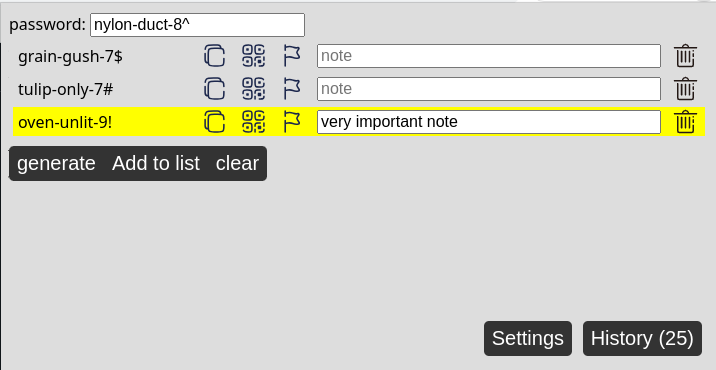
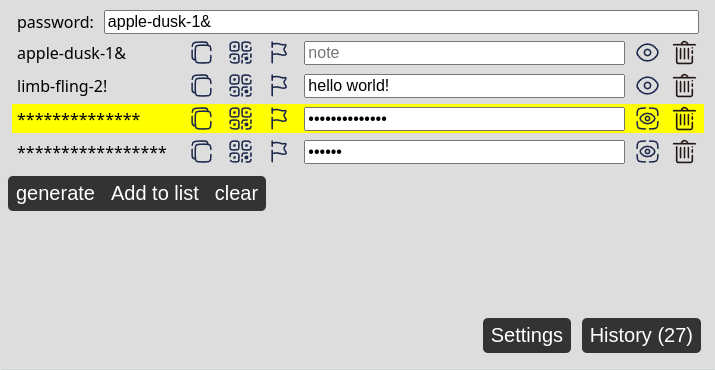
Add password hiding feature

Changed region(s): [[0.0, 0.0, 0.9846, 0.5946], [0.6769, 0.8622, 0.9846, 0.9811]]

diff --git a/src/components/icons/eye.tsx b/src/components/icons/eye.tsx
@@ -1,0 +1,74 @@
+import React from 'react';
+
+interface Props {
+  open: boolean;
+}
+
+const IconEye = (props: Props) => {
+  const { open } = props;
+  if (open) {
+    return (
+      <svg
+        width="25px"
+        height="25px"
+        viewBox="0 0 24 24"
+        fill="none"
+        xmlns="http://www.w3.org/2000/svg"
+      >
+        <path
+          d="M10 22C6.22876 22 4.34315 22 3.17157 20.8284C2 19.6569 2 18.7712 2 15"
+          stroke="#1C274C"
+          stroke-width="1.5"
+          stroke-linecap="round"
+        />
+        <path
+          d="M22 15C22 18.7712 22 19.6569 20.8284 20.8284C19.6569 22 17.7712 22 14 22"
+          stroke="#1C274C"
+          stroke-width="1.5"
+          stroke-linecap="round"
+        />
+        <path
+          d="M14 2C17.7712 2 19.6569 2 20.8284 3.17157C22 4.34315 22 5.22876 22 9"
+          stroke="#1C274C"
+          stroke-width="1.5"
+          stroke-linecap="round"
+        />
+        <path
+          d="M10 2C6.22876 2 4.34315 2 3.17157 3.17157C2 4.34315 2 5.22876 2 9"
+          stroke="#1C274C"
+          stroke-width="1.5"
+          stroke-linecap="round"
+        />
+        <path
+          d="M5.89243 14.0598C5.29748 13.3697 5 13.0246 5 12C5 10.9754 5.29747 10.6303 5.89242 9.94021C7.08037 8.56222 9.07268 7 12 7C14.9273 7 16.9196 8.56222 18.1076 9.94021C18.7025 10.6303 19 10.9754 19 12C19 13.0246 18.7025 13.3697 18.1076 14.0598C16.9196 15.4378 14.9273 17 12 17C9.07268 17 7.08038 15.4378 5.89243 14.0598Z"
+          stroke="#1C274C"
+          stroke-width="1.5"
+        />
+        <circle cx="12" cy="12" r="2" stroke="#1C274C" stroke-width="1.5" />
+      </svg>
+    );
+  } else {
+    return (
+      <svg
+        width="25px"
+        height="25px"
+        viewBox="0 0 24 24"
+        fill="none"
+        xmlns="http://www.w3.org/2000/svg"
+      >
+        <path
+          d="M3.27489 15.2957C2.42496 14.1915 2 13.6394 2 12C2 10.3606 2.42496 9.80853 3.27489 8.70433C4.97196 6.49956 7.81811 4 12 4C16.1819 4 19.028 6.49956 20.7251 8.70433C21.575 9.80853 22 10.3606 22 12C22 13.6394 21.575 14.1915 20.7251 15.2957C19.028 17.5004 16.1819 20 12 20C7.81811 20 4.97196 17.5004 3.27489 15.2957Z"
+          stroke="#1C274C"
+          stroke-width="1.5"
+        />
+        <path
+          d="M15 12C15 13.6569 13.6569 15 12 15C10.3431 15 9 13.6569 9 12C9 10.3431 10.3431 9 12 9C13.6569 9 15 10.3431 15 12Z"
+          stroke="#1C274C"
+          stroke-width="1.5"
+        />
+      </svg>
+    );
+  }
+};
+
+export { IconEye };

diff --git a/src/pages/app/popup.tsx b/src/pages/app/popup.tsx
@@ -6,11 +6,19 @@ import {
   Button,
   Container,
   SettingsButton,
-  ButtonGroup
+  ButtonGroup,
+  Row
 } from '../../components/styles';
 import { getPasswordHistory, getPasswords, getSettings } from '../settings';
 import { IPassword, ISettings } from '../../types';
 import Password from '@components/password-row';
+
+// async function getLastPasswordFromHistory() {
+//   const history = await getPasswordHistory();
+//   if (history.at(0)) {
+//     return history.at(0);
+//   }
+// }
 
 const App = () => {
   const [password, setPassword] = useState('');
@@ -123,23 +131,35 @@ const App = () => {
     if (!passwords) {
       return;
     }
-    console.log('updating note');
+    console.log('flagging password');
     const updatedPasswords = [...passwords];
     updatedPasswords[index].flagged = !updatedPasswords[index].flagged;
+    setPasswords(updatedPasswords);
+  };
+
+  const hidePassword = (index: number) => {
+    if (!passwords) {
+      return;
+    }
+    console.log('hiding password');
+    const updatedPasswords = [...passwords];
+    updatedPasswords[index].hidden = !updatedPasswords[index].hidden;
     setPasswords(updatedPasswords);
   };
 
   return (
     <div>
       <Container>
-        password:{' '}
-        <input
-          onChange={(e) => {
-            setPassword(e.target.value);
-          }}
-          ref={passwordRef}
-          defaultValue={password}
-        />
+        <Row columns="auto 1fr">
+          password:{' '}
+          <input
+            onChange={(e) => {
+              setPassword(e.target.value);
+            }}
+            ref={passwordRef}
+            defaultValue={password}
+          />
+        </Row>
         {passwords &&
           passwords.map((_, index) => (
             <Password
@@ -148,6 +168,7 @@ const App = () => {
               deletePassword={deletePassword}
               updateNote={updateNote}
               flagPassword={flagPassword}
+              hidePassword={hidePassword}
             />
           ))}
       </Container>

diff --git a/src/components/password-row/index.tsx b/src/components/password-row/index.tsx
@@ -6,31 +6,29 @@ import { IconQR } from '@components/icons/qr';
 import { IconFlag } from '@components/icons/flag';
 import { IconTrash } from '@components/icons/trash';
 import { useNavigate } from 'react-router-dom';
+import { IconEye } from '@components/icons/eye';
 
 interface IProps {
   passwords: IPassword[];
   index: number;
-  // password: IPassword;
-  // setPasswords: React.Dispatch<React.SetStateAction<false | IPassword[]>>;
   deletePassword: (index: number) => void;
   flagPassword: (index: number) => void;
   updateNote: (event: React.ChangeEvent<HTMLInputElement>, index: number) => void;
-  // deletePassword: (index: number) => void;
-  // updateNote: (event: React.ChangeEvent<HTMLInputElement>, index: number) => void;
+  hidePassword: (index: number) => void;
 }
 
 function Password(props: IProps) {
   const navigate = useNavigate();
-  const { passwords, index, updateNote, deletePassword, flagPassword } = props;
+  const { passwords, index, updateNote, deletePassword, flagPassword, hidePassword } = props;
   const password = passwords[index];
 
   return (
     <Row
       key={index}
-      columns="1fr auto auto auto 2fr auto"
+      columns="1fr auto auto auto 2fr auto auto"
       background={password.flagged ? 'yellow' : ''}
     >
-      {password.password}
+      {password.hidden ? '*'.repeat(password.password.length) : password.password}
       <SVGHover
         onClick={() => {
           navigator.clipboard.writeText(password.password).catch((error) => {
@@ -55,11 +53,14 @@ function Password(props: IProps) {
         <IconFlag />
       </SVGHover>
       <NoteCell
-        type="text"
+        type={password.hidden ? 'password' : 'text'}
         placeholder="note"
         value={password.note}
         onChange={(e) => updateNote(e, index)}
       />
+      <SVGHover onClick={() => hidePassword(index)}>
+        <IconEye open={password.hidden} />
+      </SVGHover>
       <SVGHover
         onClick={() => {
           deletePassword(index);

diff --git a/src/components/styles/index.ts b/src/components/styles/index.ts
@@ -20,6 +20,12 @@ export const Row = styled('div') <{ columns?: string; background?: string }>`
 `;
 
 export const SVGHover = styled('div')`
+  /* center SVG icons */
+  display: flex;
+  align-items: center;
+  justify-content: center;
+
+  /* make the icon look nice */
   border-radius: 5px;
   transition: background-color 0.3s ease;
   &:hover {

diff --git a/src/types/index.ts b/src/types/index.ts
@@ -15,6 +15,7 @@ interface IPassword {
   password: string;
   note: string;
   flagged: boolean;
+  hidden: boolean;
 }
 
 export { ISettings, IPassword };
